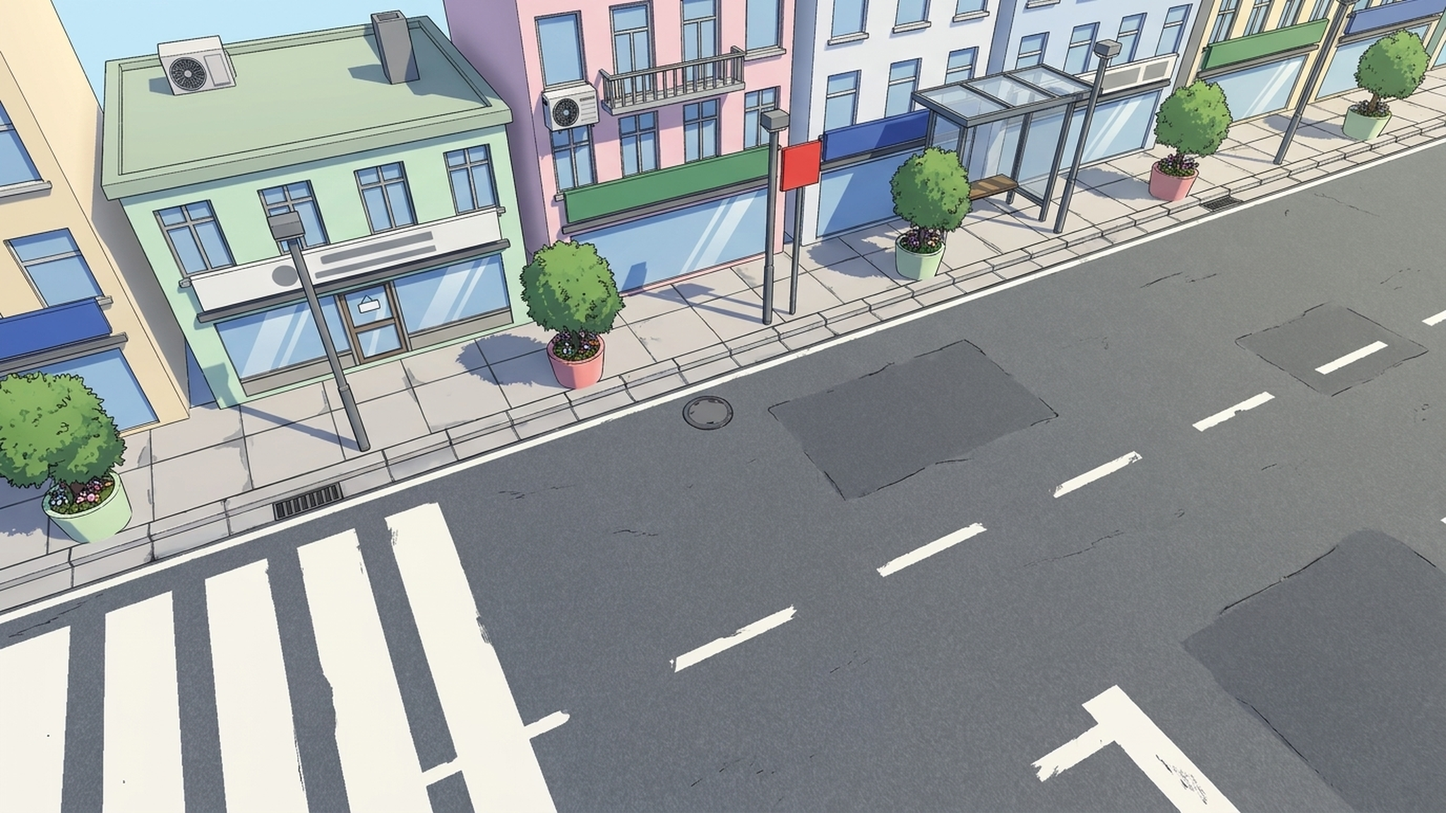
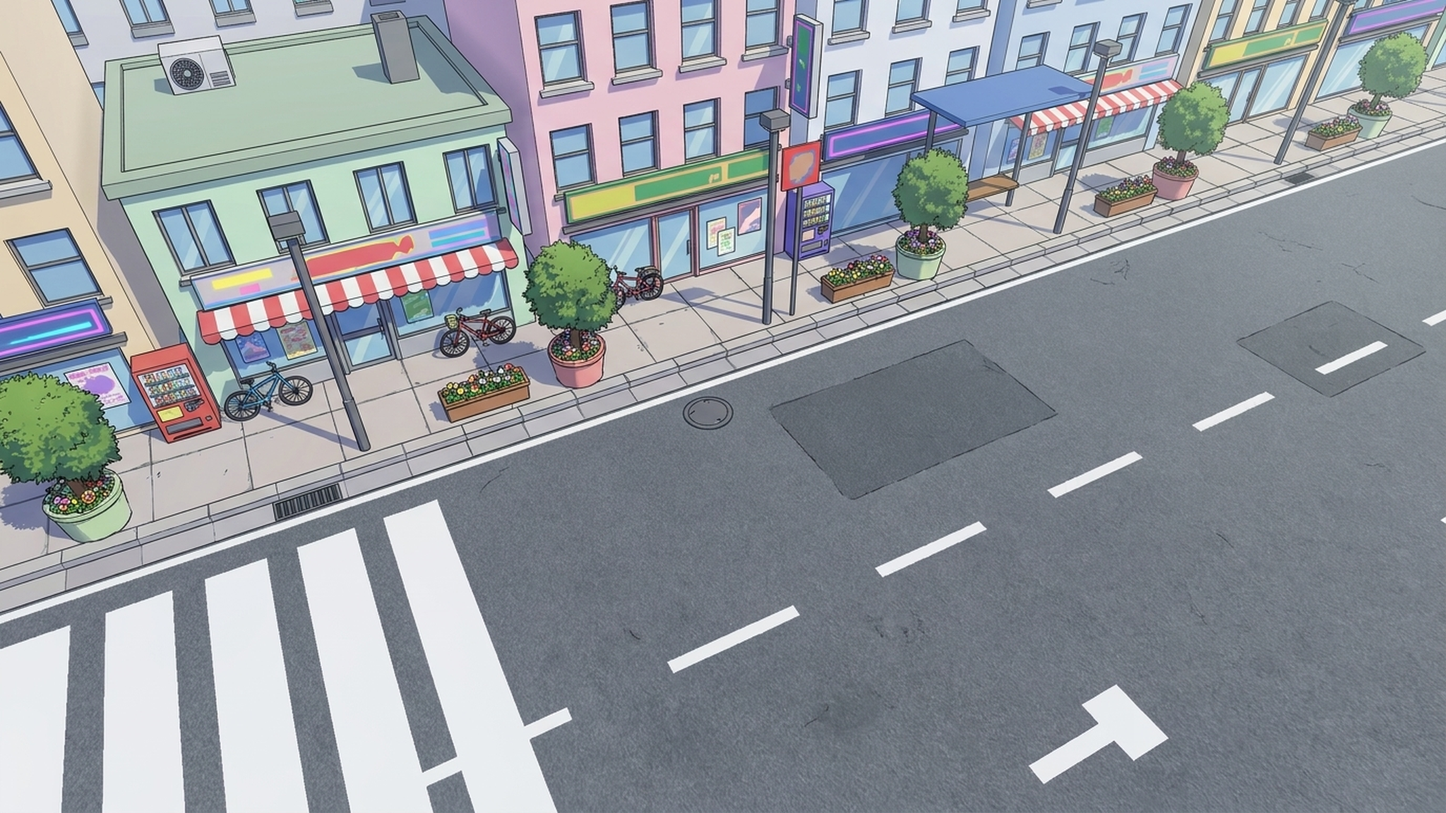
BA 교차점검 4차: 전투 거리 재도색(채도·간판·차양·자전거·자판기·화분 밀도), 전투 카메라 26°로 낮춤(그림 투영 포즈는 40° 고정), 전투 중 턱 들기·허리 굽힘 제한(태블릿 공격이 정수리만 보이던 것), 교차점검 MATCH(해상도 맞춤) 옵션

diff --git a/Assets/ExcelHeroes/Scripts/World/BattleWorld.cs b/Assets/ExcelHeroes/Scripts/World/BattleWorld.cs
@@ -89,7 +89,7 @@ namespace ExcelHeroes.World
         /// <summary>Victory: bring the camera down onto the party, who turn to it and cheer.</summary>
         public void Celebrate(bool on) => _closeUpTarget = on ? 1f : 0f;
 
-        public static float QuarterPitch = 40f, QuarterYaw = 28f, QuarterDist = 10.5f;
+        public static float QuarterPitch = 26f, QuarterYaw = 28f, QuarterDist = 10.5f;   // 33°: lower than the old 40, so a fighting squad shows faces, not crowns (the BA cross-check)
         float _camFocusX = -0.2f, _camZoom = 1f, _lastEnemyX = float.NaN, _lastHeroX = float.NaN, _punch;
 
         void PlaceCamera(float shake)
@@ -1429,6 +1429,13 @@ namespace ExcelHeroes.World
         static Material DiscMat => _discMat != null ? _discMat : _discMat = MeshKit.NewGlass(MeshKit.Blob, Color.white);
 
         /// <summary>Capture pass only: the floor marks of `kind` for the boss on the field, replacing any shown.</summary>
+        public string DebugFacing()
+        {
+            var sb = new System.Text.StringBuilder($"cam {_cam.transform.position} fwd {_cam.transform.forward} | ");
+            foreach (var a in _actors.Values) if (a.C.side == Side.Hero) sb.Append($"{a.C.heroId} yaw {a.Rig.Root.eulerAngles.y:0} fwd {a.Rig.Root.forward} model {(a.Rig.Model != null ? a.Rig.Model.forward.ToString() : "-")}; ");
+            return sb.ToString();
+        }
+
         public bool DebugTelegraph(string kind)
         {
             foreach (var t in _teles) Drop(t);
@@ -1727,6 +1734,15 @@ namespace ExcelHeroes.World
                     else _pose = SdPose.Ready(SdPose.AttackOf(Pid, C.role), time * pers.Tempo, Z * 2f);   // in a fight: the combat stance, not the lobby idle
                     // the character's own bearing over it (SdPersona): full in the guard, less on the run or celebrating, none mid-blow
                     pers.Shape(ref _pose, Dying > 0f || !C.Alive || sklOn || hitOn || atkOn ? 0f : cheering ? 0.4f : walking ? 0.45f : 0.7f);
+                    // the chin up to the camera above (the BA cross-check: seen from 33° up, a forward lean and a
+                    // level chin put the big fringe over the face and the squad read as the backs of heads)
+                    // the tablet attacks drop the eyes 12° onto the screen, which from up here is the crown of the head:
+                    // the chin is kept at least a little up in the fight, the waist hardly folding
+                    if (hero && !cheering && C.Alive && Dying <= 0f)
+                    {
+                        _pose.HeadPitch = Mathf.Min(_pose.HeadPitch - 9f, -4f);
+                        _pose.Lean *= 0.7f; _pose.SpineBend = Mathf.Min(_pose.SpineBend, 2f);
+                    }
                     // the head looks at the fight: heroes toward the enemy line, enemies toward the squad
                     if (!cheering && !atkOn && C.Alive)
                     {
@@ -1748,7 +1764,7 @@ namespace ExcelHeroes.World
                 // turned with the quarter-view camera, so each keeps the same angle to the lens
                 // a mascot is a drawing given depth: its face is the drawing's front, so it turns only a
                 // little toward the squad (28° off the lens) — side-on it showed its thin plush seam
-                var yaw = (hero ? Mathf.Lerp(Rig.RefModel ? -55f : -75f, -10f, closeUp) : Rig.Mascot ? 28f : Rig.RefModel ? 38f : 75f) + QuarterYaw * (1f - closeUp);   // the SD squad turned a three-quarter towards the lens as the reference's are (faces, not the backs of heads: the BA cross-check)
+                var yaw = (hero ? Mathf.Lerp(Rig.RefModel ? -32f : -75f, -10f, closeUp) : Rig.Mascot ? 28f : Rig.RefModel ? 38f : 75f) + QuarterYaw * (1f - closeUp);   // the SD squad turned a three-quarter towards the lens as the reference's are (faces, not the backs of heads: the BA cross-check)
                 // (an SdEnemy wears the heroes' skeleton and its clips' half turn: mirrored from the heroes,
                 // toward the squad and a little toward the lens, so its face shows)
                 // a limbless mascot (3D monster) attacks by lunging: a hop toward the squad

diff --git a/tools/street_plate_gemini.py b/tools/street_plate_gemini.py
@@ -27,7 +27,10 @@ ASK = ("This is a flat untextured 3D render of a city street set, seen from a hi
        "moved, added in the road or removed. ADD DETAIL AND MATERIAL: fine asphalt texture with subtle wear and patches, crisp "
        "painted lane lines, tiled sidewalk with joints, curb stones, detailed shop fronts (signs with simple generic shapes and no "
        "readable text or logos, display windows with reflections, window frames, sills, balconies, air conditioners), leafy tree "
-       "canopies, planters with flowers, soft ambient occlusion in corners, contact shadows under objects. Lighting: {light}. "
+       "canopies, planters with flowers, soft ambient occlusion in corners, contact shadows under objects. Make it VIVID and DENSE like a "
+       "lively Tokyo shopping street in a hit anime game: saturated clean colours (not pastel-washed), colourful shop signs and banners "
+       "(abstract shapes, no readable letters), striped awnings, neon accents, posters in windows, vending machines, bicycles parked on "
+       "the sidewalk, flower boxes, road signs, painted yellow curb markings and bright white crossings. Lighting: {light}. "
        "No people, no vehicles, no characters, no text, no watermark. Output the same framing, 16:9.")
 
 

diff --git a/tools/ba_crosscheck.py b/tools/ba_crosscheck.py
@@ -48,7 +48,17 @@ BLIND = ("Two mobile game screenshots of the same kind of screen ({what}), A (im
          "director, score each 1-10 for overall visual quality (art, rendering, layout, UI polish). JSON only: {{\"a\": n, \"b\": n}}")
 
 
+MATCH = int(os.environ.get("MATCH", "0"))   # MATCH=<width>: every image shown at the same width (the refs are ~640-960 px)
+
+
 def img(path):
+    if MATCH:
+        from PIL import Image
+        import io
+        im = Image.open(path).convert("RGB")
+        if im.width != MATCH: im = im.resize((MATCH, round(MATCH * im.height / im.width)), Image.LANCZOS)
+        buf = io.BytesIO(); im.save(buf, "PNG")
+        return {"inlineData": {"mimeType": "image/png", "data": base64.b64encode(buf.getvalue()).decode("ascii")}}
     return {"inlineData": {"mimeType": "image/png", "data": base64.b64encode(open(path, "rb").read()).decode("ascii")}}
 
 

diff --git a/Assets/ExcelHeroes/Scripts/World/StreetSet.cs b/Assets/ExcelHeroes/Scripts/World/StreetSet.cs
@@ -22,8 +22,9 @@ namespace ExcelHeroes.World
 
         public static (Vector3 pos, Quaternion rot) PlatePose()
         {
-            var pitch = BattleWorld.QuarterPitch * Mathf.Deg2Rad;
-            var pos = PlateTarget + Quaternion.Euler(0f, BattleWorld.QuarterYaw, 0f) * new Vector3(0f, Mathf.Sin(pitch), -Mathf.Cos(pitch)) * BattleWorld.QuarterDist;
+            // fixed at the pose the paintings were made from (40° down, 28° round, 10.5 m) — the battle camera may move
+            var pitch = 40f * Mathf.Deg2Rad;
+            var pos = PlateTarget + Quaternion.Euler(0f, 28f, 0f) * new Vector3(0f, Mathf.Sin(pitch), -Mathf.Cos(pitch)) * 10.5f;
             return (pos, Quaternion.LookRotation(PlateTarget - pos, Vector3.up));
         }
 
